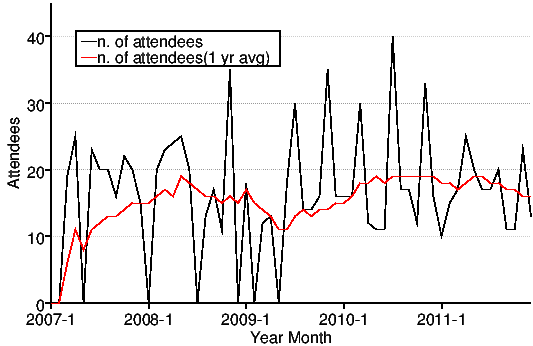
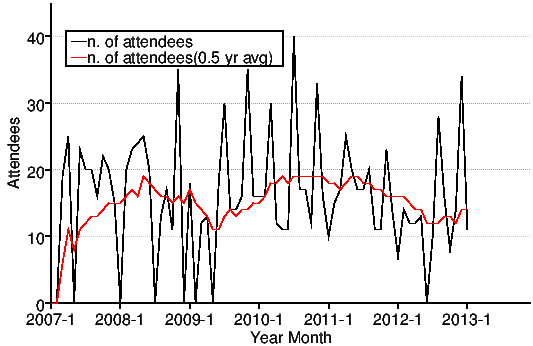
Update Kansai attend
* rewrite shebang: python2.6 -> python
* update png, bb

Changed region(s): [[0.0901, 0.0867, 1.0, 0.9538], [0.5704, 0.896, 0.9306, 0.9538]]

diff --git a/image201212/memberanalysis/attend-kansai.py b/image201212/memberanalysis/attend-kansai.py
@@ -1,4 +1,4 @@
-#!/usr/bin/python2.6
+#!/usr/bin/python
 """
 Generates graph for attendance and pre/post work.
 Processes the output of:
@@ -12,7 +12,7 @@ select year, month, sum(type='attendance'), sum(type='prework'), sum(type='postw
 from pychart import *
 import csv
 
-NUM_YEARS = 5
+NUM_YEARS = 7
 
 theme.use_color=True
 theme.default_font_size=16
@@ -43,11 +43,10 @@ xaxis = axis.X(tic_interval = 12, label="Year Month",
 yaxis = axis.Y(tic_interval = 10, label="Attendees")
 chart_object.set_defaults(area.T, size = (480, 300))
 ar = area.T(x_axis=xaxis, y_axis=yaxis, x_range=(1,12*NUM_YEARS),
-            y_range=(0,None), legend = legend.T(loc=(30,240)))
+            y_range=(0,None), legend = legend.T(loc=(20,240)))
 plot1 = line_plot.T(label="n. of attendees", data=data, ycol=1)
-plot2 = line_plot.T(label="n. of attendees(1 yr avg)", data=data, ycol=2)
+plot2 = line_plot.T(label="n. of attendees(0.5 yr avg)", data=data, ycol=2)
 
-#ar.add_plot(plot, plot2, plot3, plot4, plot5, plot6)
 ar.add_plot(plot1, plot2)
 can = canvas.init("kansai.png")
 ar.draw(can)
